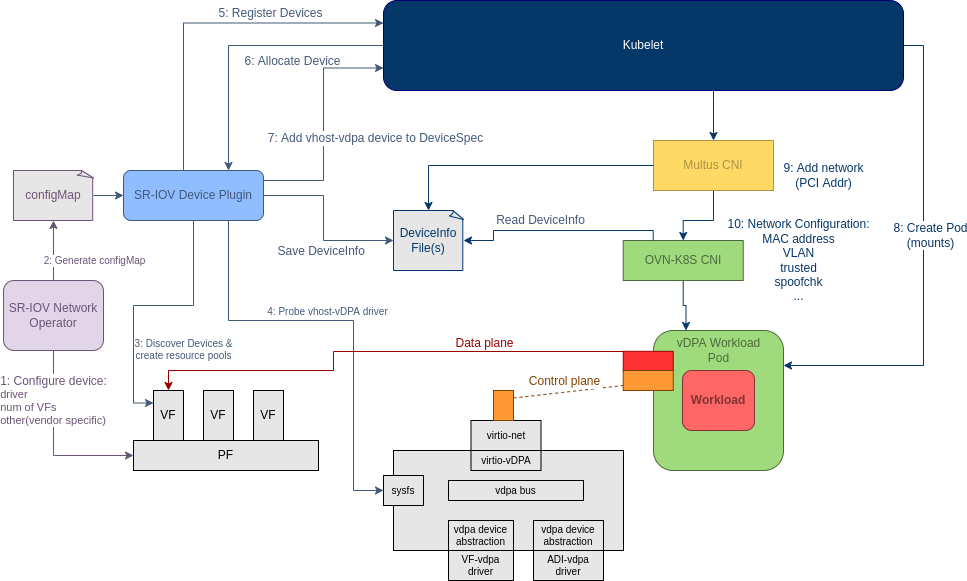
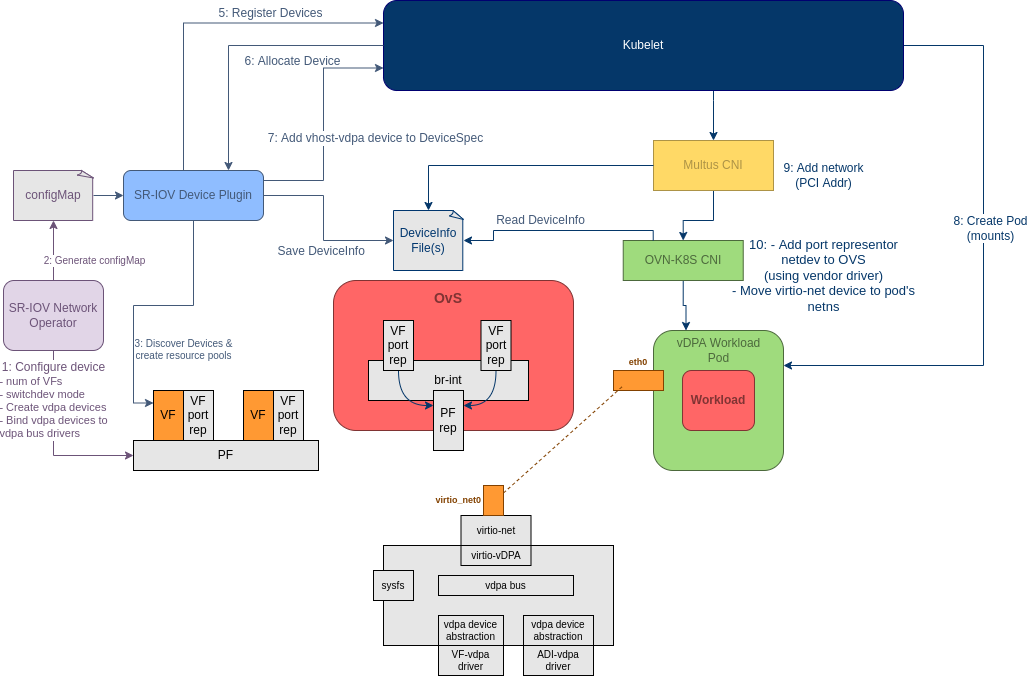
Addressed PR comments on 01/08
- minor changes
- architecture diagram (step 4 in step 1, OVS and port reps)

diff --git a/enhancements/vdpa/vdpa-support-overview.md b/enhancements/vdpa/vdpa-support-overview.md
@@ -29,7 +29,7 @@ Given that it’s an abstraction layer on top of SRIOV (Single Root I/O Virtuali
 
 Virtio (see [spec](https://docs.oasis-open.org/virtio/virtio/v1.1/csprd01/virtio-v1.1-csprd01.html)) is used for the data plane while vDPA is used to simplify the control plane thus this solution in general is called virtio/VDPA.
 
-Virtio/vDPA can provide acceleration capabilities replacing SRIOV both for VMs and containers. In this proposal we focus on adding virtio/vDPA capabilities to Openshift SDN as dev-preview for container workloads focusing on Nvidia connectx-6 DX NICs. In the future support for Nvidia Bluefield2/Bluefield3 is planned to be provided as well as support for VMs in openshift (kubevirt and kata containers).
+Virtio/vDPA can provide acceleration capabilities replacing SRIOV both for VMs and containers. In this proposal we focus on adding virtio/vDPA capabilities to OVN-Kubernetes as dev-preview for container workloads focusing on Nvidia connectx-6 DX NICs. In the future support for Nvidia Bluefield2/Bluefield3 is planned to be provided as well as support for VMs in openshift (kubevirt and kata containers).
 
 Virtio/vDPA can be consumed in two different ways by the user:
 - virtio-vdpa for container workloads

diff --git a/enhancements/vdpa/virtio-vdpa-ovn-hw-offload.md b/enhancements/vdpa/virtio-vdpa-ovn-hw-offload.md
@@ -17,7 +17,7 @@ api-approvers:
   - "@dcbw"
   - "@knobunc"
 creation-date: 2022-07-13
-last-updated: 2022-07-29
+last-updated: 2022-08-01
 tracking-link: 
   - https://issues.redhat.com/browse/NP-19
 ---
